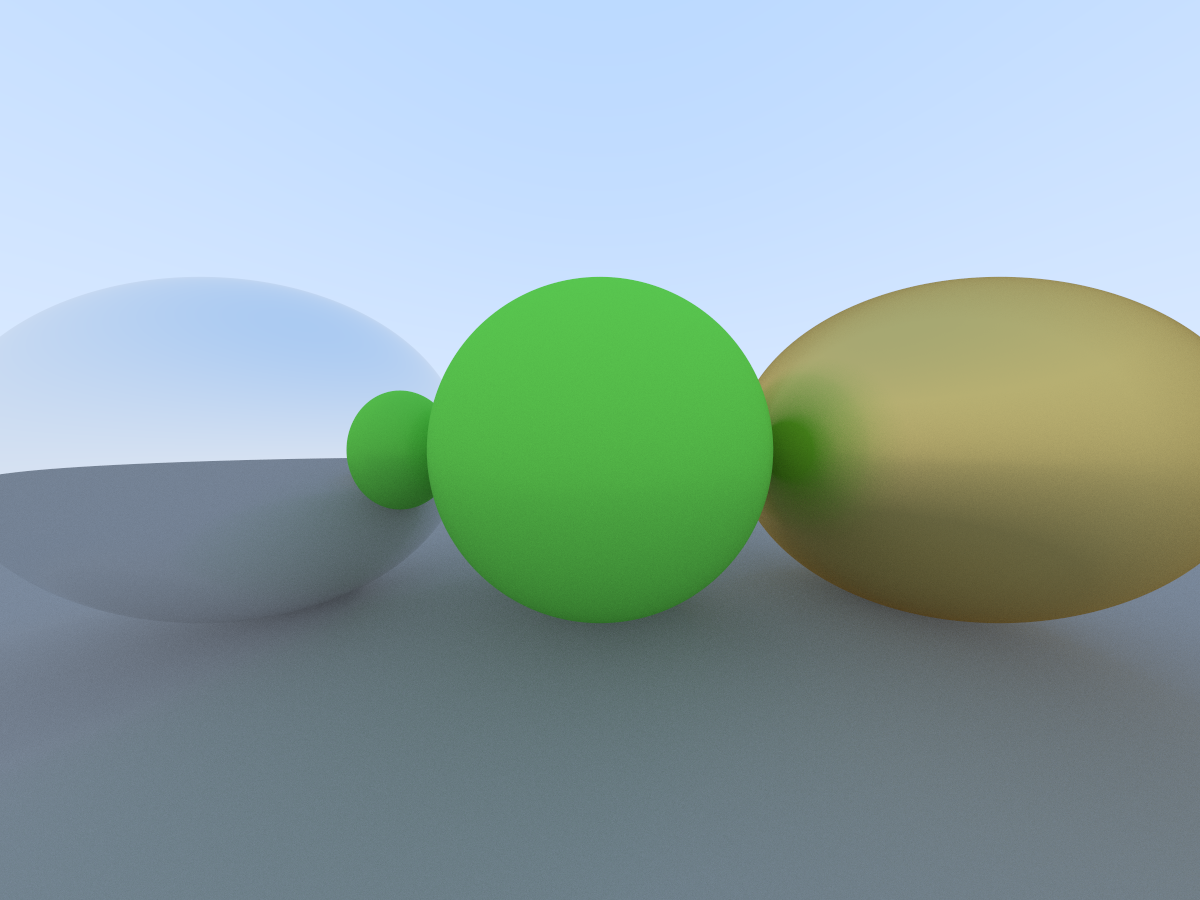
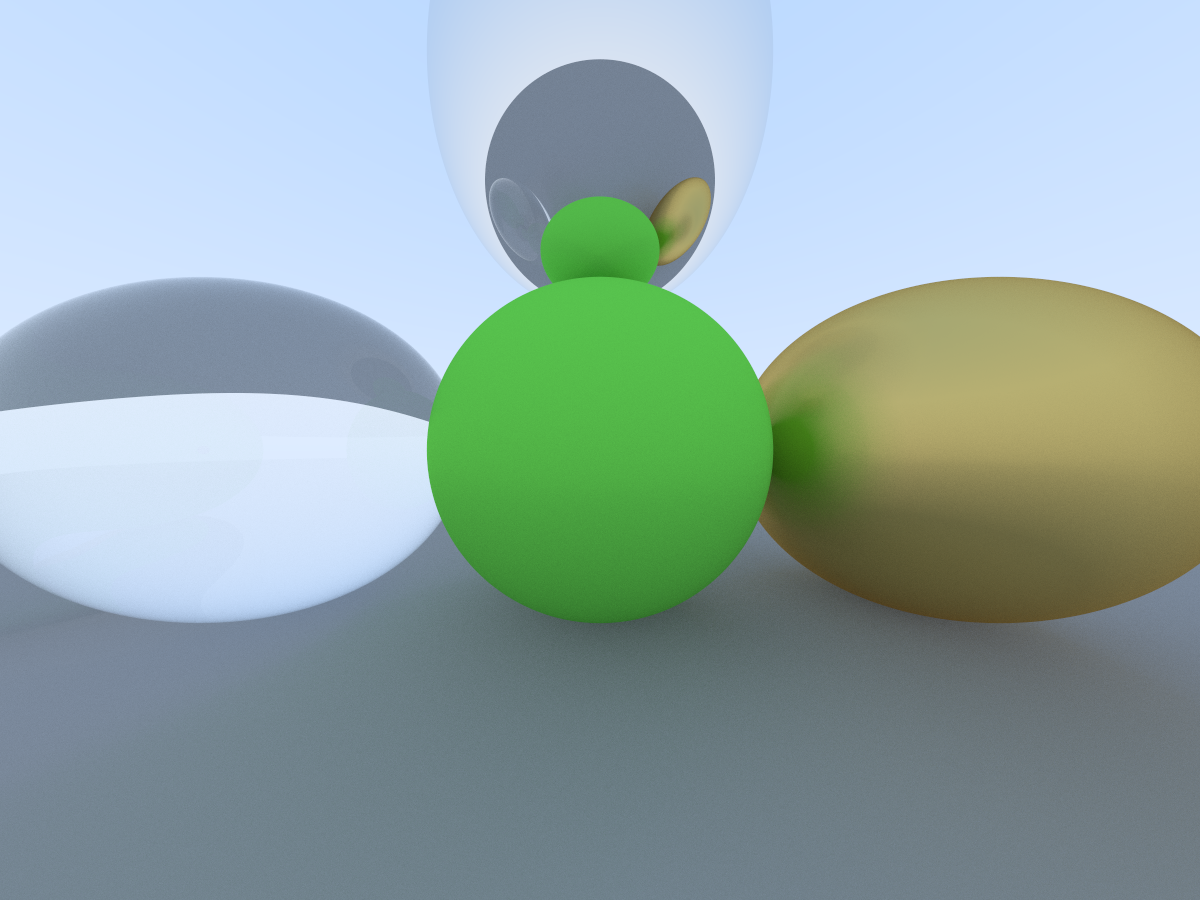
feat: support dielectric material

Changed region(s): [[0.0, 0.3111, 0.37, 0.7778], [0.4008, 0.0311, 0.6167, 0.3422], [0.6783, 0.3733, 0.7092, 0.4044]]

diff --git a/src/materials/dielectric.rs b/src/materials/dielectric.rs
@@ -1,0 +1,53 @@
+use crate::materials::Material;
+use crate::ray::Ray;
+use crate::world::HitRecord;
+use nalgebra::vector;
+use rand::random;
+
+use super::ScatterRecord;
+
+pub struct DielectricMaterial {
+    ir: f64, // Index of Refraction
+}
+
+impl DielectricMaterial {
+    pub fn new(index_of_refraction: f64) -> Self {
+        Self {
+            ir: index_of_refraction,
+        }
+    }
+
+    fn reflectance(&self, cosine: f64, ref_idx: f64) -> f64 {
+        // Use Schlick's approximation for reflectance.
+        let r0 = (1.0 - ref_idx) / (1.0 + ref_idx);
+        let r0 = r0 * r0;
+        r0 + (1.0 - r0) * (1.0 - cosine).powf(5.0)
+    }
+}
+
+impl Material for DielectricMaterial {
+    fn scatter(&self, ray: &Ray, rec: &HitRecord) -> Option<ScatterRecord> {
+        let attenuation = vector![1.0, 1.0, 1.0];
+        let refraction_ratio = if rec.is_front { 1.0 / self.ir } else { self.ir };
+
+        let unit_direction = ray.direction.normalize();
+        let cos_theta = (-unit_direction).dot(&rec.normal).min(1.0);
+        let sin_theta = (1.0 - cos_theta * cos_theta).sqrt();
+
+        let cannot_refract = refraction_ratio * sin_theta > 1.0;
+        let direction =
+            if cannot_refract || self.reflectance(cos_theta, refraction_ratio) > random() {
+                unit_direction - 2f64 * unit_direction.dot(&rec.normal) * rec.normal
+            } else {
+                let cos_theta = f64::min(-unit_direction.dot(&rec.normal), 1.0);
+                let r_out_perp = refraction_ratio * (unit_direction + cos_theta * rec.normal);
+                let r_out_parallel = -((1.0 - r_out_perp.norm_squared()).abs().sqrt()) * rec.normal;
+                r_out_perp + r_out_parallel
+            };
+
+        Some(ScatterRecord {
+            scattered: Ray::new(rec.point, direction),
+            attenuation_factor: attenuation,
+        })
+    }
+}

diff --git a/src/main.rs b/src/main.rs
@@ -10,7 +10,9 @@ mod world;
 use crate::camera::Camera;
 use crate::color::LinearMixer;
 use crate::materials::Material;
-use crate::materials::{LambertianMaterial, MetalMaterial, SimpleDiffuseMaterial};
+use crate::materials::{
+    DielectricMaterial, LambertianMaterial, MetalMaterial, SimpleDiffuseMaterial,
+};
 use crate::output::{ImageTarget, RenderTarget};
 use crate::world::{Hittable, Sphere};
 use nalgebra::{vector, Point3, Vector3};
@@ -26,16 +28,19 @@ fn main() {
     let lambertian = Box::new(LambertianMaterial::new(vector![0.2, 0.8, 0.1])) as Box<dyn Material>;
     let metal = Box::new(MetalMaterial::new(Vector3::from_element(0.9), 0f64)) as Box<dyn Material>;
     let metal_fuzz = Box::new(MetalMaterial::new(vector![0.8, 0.6, 0.2], 0.6)) as Box<dyn Material>;
+    let dielectric = Box::new(DielectricMaterial::new(1.5)) as Box<dyn Material>;
 
     let s1 = Sphere::new(Point3::new(0f64, 0f64, -1f64), 0.5, &lambertian);
-    let s2 = Sphere::new(Point3::new(-1f64, 0f64, -1f64), 0.5, &metal);
+    let s2 = Sphere::new(Point3::new(-1f64, 0f64, -1f64), 0.5, &dielectric);
     let s3 = Sphere::new(Point3::new(1f64, 0f64, -1f64), 0.5, &metal_fuzz);
+    let s4 = Sphere::new(Point3::new(0f64, 1f64, -1f64), 0.5, &metal);
     let gnd = Sphere::new(Point3::new(0f64, -100.5, -1f64), 100f64, &simple);
 
     let world = vec![
         Box::new(s1) as Box<dyn Hittable>,
         Box::new(s2) as Box<dyn Hittable>,
         Box::new(s3) as Box<dyn Hittable>,
+        Box::new(s4) as Box<dyn Hittable>,
         Box::new(gnd) as Box<dyn Hittable>,
     ];
 

diff --git a/src/materials/mod.rs b/src/materials/mod.rs
@@ -1,6 +1,8 @@
+pub mod dielectric;
 pub mod diffuse_materials;
 pub mod material;
 pub mod metal;
+pub use dielectric::DielectricMaterial;
 pub use diffuse_materials::{LambertianMaterial, SimpleDiffuseMaterial};
 pub use material::{Material, MaterialRef, ScatterRecord};
 pub use metal::MetalMaterial;

diff --git a/src/materials/material.rs b/src/materials/material.rs
@@ -1,6 +1,5 @@
 use nalgebra::Vector3;
 use std::boxed::Box;
-use std::fmt::Debug;
 
 use crate::ray::Ray;
 use crate::world::hittable::HitRecord;
